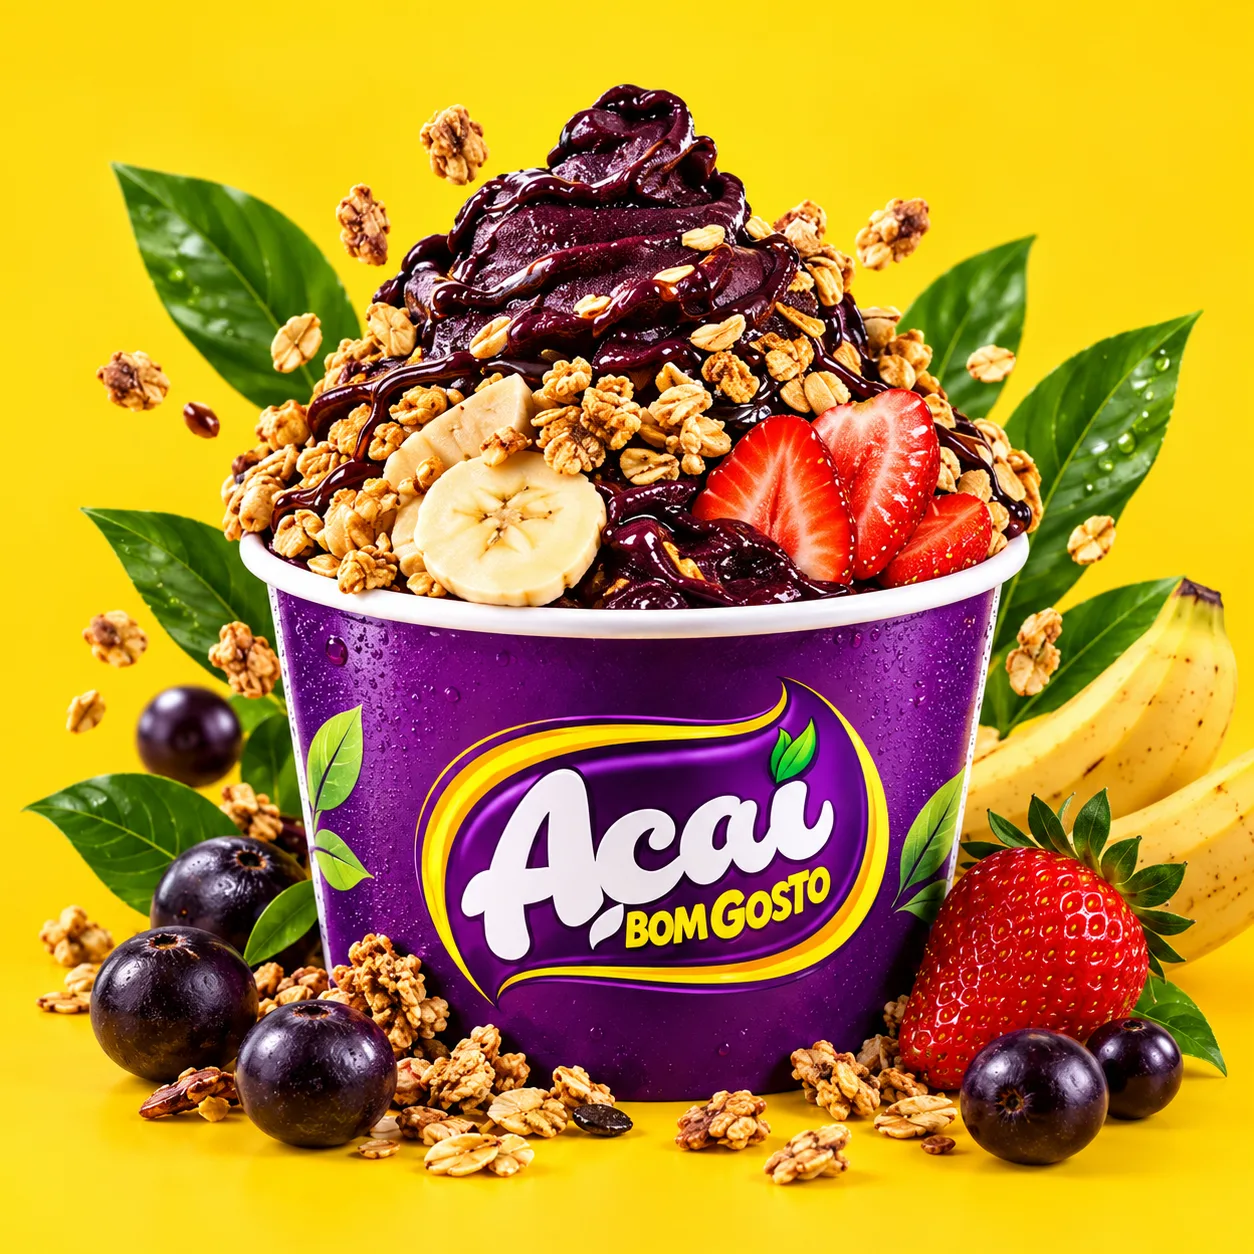
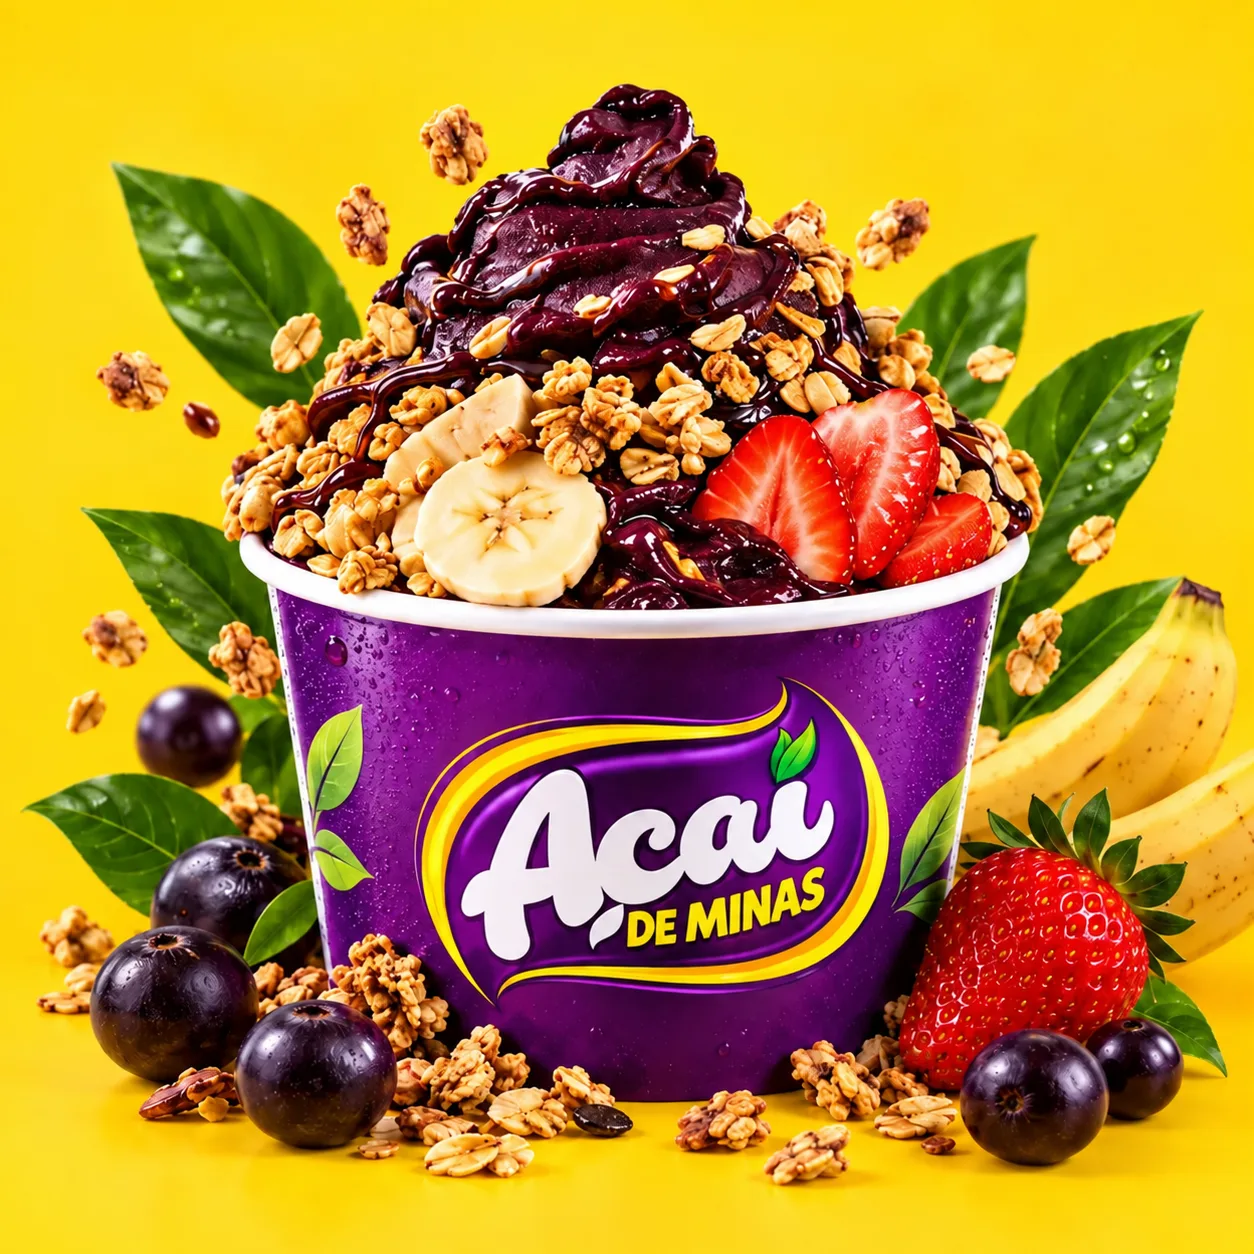
Corrige marca para Açaí de Minas nos textos e na arte principal

diff --git a/src/components/site/CartDrawer.tsx b/src/components/site/CartDrawer.tsx
@@ -4,5 +4,5 @@ import {Dialog,DialogContent,DialogTitle,DialogDescription} from "@/components/u
 import {useCart,cartItemPrice} from "@/hooks/useCart";
 import {business,brl} from "@/data/business";
 export function CartDrawer(){const {open,setOpen,items,subtotal,setQty,remove,notes,setNotes}=useCart();const [name,setName]=useState("");const [mode,setMode]=useState("Retirada");const [address,setAddress]=useState("");const [payment,setPayment]=useState("A combinar");
-function finish(e:React.FormEvent){e.preventDefault();if(!business.whatsapp||!items.length)return;const message=["*PEDIDO — AÇAÍ BOM GOSTO*",...items.map(i=>`${i.qty}x ${i.product.name}${i.variant?` (${i.variant.label})`:""} — ${brl(i.qty*cartItemPrice(i))}${i.flavor?` / ${i.flavor}`:""}`),`Subtotal dos produtos: ${brl(subtotal)}`,`Nome: ${name}`,`Recebimento: ${mode}`,...(mode==="Entrega"?[`Endereço: ${address}`,"Taxa e prazo de entrega: a confirmar com a loja"]:[]),`Pagamento: ${payment}`,...(notes?[`Observações: ${notes}`]:[]),"Aguardo confirmação de disponibilidade e valor final."].join("\n");window.open(`https://wa.me/${business.whatsapp}?text=${encodeURIComponent(message)}`,"_blank","noopener,noreferrer");}
-return <Dialog open={open} onOpenChange={setOpen}><DialogContent className="max-h-[90dvh] overflow-y-auto rounded-3xl sm:max-w-lg"><DialogTitle className="font-display text-2xl">Seu pedido de Bom Gosto</DialogTitle><DialogDescription>Confira os itens e confirme o pedido com a loja.</DialogDescription>{items.length===0?<div className="py-10 text-center"><p>Seu pedido ainda está vazio.</p><button className="yellow-button mt-5" onClick={()=>{setOpen(false);document.getElementById("cardapio")?.scrollIntoView()}}>Explorar cardápio</button></div>:<><ul className="divide-y">{items.map(i=><li key={i.key} className="py-4"><div className="flex justify-between gap-4"><strong>{i.product.name}</strong><span>{brl(i.qty*cartItemPrice(i))}</span></div>{i.variant&&<p>{i.variant.label}</p>}{i.flavor&&<p className="text-sm">{i.flavor}</p>}<div className="mt-3 flex items-center gap-4"><button aria-label={`Diminuir ${i.product.name}`} className="rounded-full bg-accent p-2" onClick={()=>setQty(i.key,i.qty-1)}><Minus size={18}/></button><span>{i.qty}</span><button aria-label={`Aumentar ${i.product.name}`} className="rounded-full bg-accent p-2" onClick={()=>setQty(i.key,i.qty+1)}><Plus size={18}/></button><button aria-label={`Remover ${i.product.name}`} className="ml-auto p-2" onClick={()=>remove(i.key)}><Trash2 size={18}/></button></div></li>)}</ul><div className="flex justify-between border-t py-4 text-lg font-bold"><span>Subtotal</span><span>{brl(subtotal)}</span></div><form onSubmit={finish} className="checkout-fields"><label>Seu nome<input required maxLength={100} autoComplete="name" value={name} onChange={e=>setName(e.target.value)}/></label><label>Recebimento<select value={mode} onChange={e=>setMode(e.target.value)}><option>Retirada</option><option>Entrega</option></select></label>{mode==="Entrega"&&<label>Endereço e referência<input required maxLength={300} autoComplete="street-address" value={address} onChange={e=>setAddress(e.target.value)}/></label>}<label>Pagamento<select value={payment} onChange={e=>setPayment(e.target.value)}>{["A combinar","PIX","Dinheiro","Cartão"].map(v=><option key={v}>{v}</option>)}</select></label><label>Observações (opcional)<textarea maxLength={500} value={notes} onChange={e=>setNotes(e.target.value)} placeholder="Alguma preferência para o seu pedido?"/></label><p className="text-sm text-muted-foreground">Disponibilidade, pagamento e eventual taxa de entrega serão confirmados pela loja.</p><button type="submit" disabled={!business.whatsapp} className="whatsapp-button disabled:opacity-50">Finalizar pelo WhatsApp</button>{!business.whatsapp&&<p role="status" className="text-sm">Contato da loja em atualização.</p>}</form></>}</DialogContent></Dialog>}
+function finish(e:React.FormEvent){e.preventDefault();if(!business.whatsapp||!items.length)return;const message=["*PEDIDO — AÇAÍ DE MINAS*",...items.map(i=>`${i.qty}x ${i.product.name}${i.variant?` (${i.variant.label})`:""} — ${brl(i.qty*cartItemPrice(i))}${i.flavor?` / ${i.flavor}`:""}`),`Subtotal dos produtos: ${brl(subtotal)}`,`Nome: ${name}`,`Recebimento: ${mode}`,...(mode==="Entrega"?[`Endereço: ${address}`,"Taxa e prazo de entrega: a confirmar com a loja"]:[]),`Pagamento: ${payment}`,...(notes?[`Observações: ${notes}`]:[]),"Aguardo confirmação de disponibilidade e valor final."].join("\n");window.open(`https://wa.me/${business.whatsapp}?text=${encodeURIComponent(message)}`,"_blank","noopener,noreferrer");}
+return <Dialog open={open} onOpenChange={setOpen}><DialogContent className="max-h-[90dvh] overflow-y-auto rounded-3xl sm:max-w-lg"><DialogTitle className="font-display text-2xl">Seu pedido — Açaí de Minas</DialogTitle><DialogDescription>Confira os itens e confirme o pedido com a loja.</DialogDescription>{items.length===0?<div className="py-10 text-center"><p>Seu pedido ainda está vazio.</p><button className="yellow-button mt-5" onClick={()=>{setOpen(false);document.getElementById("cardapio")?.scrollIntoView()}}>Explorar cardápio</button></div>:<><ul className="divide-y">{items.map(i=><li key={i.key} className="py-4"><div className="flex justify-between gap-4"><strong>{i.product.name}</strong><span>{brl(i.qty*cartItemPrice(i))}</span></div>{i.variant&&<p>{i.variant.label}</p>}{i.flavor&&<p className="text-sm">{i.flavor}</p>}<div className="mt-3 flex items-center gap-4"><button aria-label={`Diminuir ${i.product.name}`} className="rounded-full bg-accent p-2" onClick={()=>setQty(i.key,i.qty-1)}><Minus size={18}/></button><span>{i.qty}</span><button aria-label={`Aumentar ${i.product.name}`} className="rounded-full bg-accent p-2" onClick={()=>setQty(i.key,i.qty+1)}><Plus size={18}/></button><button aria-label={`Remover ${i.product.name}`} className="ml-auto p-2" onClick={()=>remove(i.key)}><Trash2 size={18}/></button></div></li>)}</ul><div className="flex justify-between border-t py-4 text-lg font-bold"><span>Subtotal</span><span>{brl(subtotal)}</span></div><form onSubmit={finish} className="checkout-fields"><label>Seu nome<input required maxLength={100} autoComplete="name" value={name} onChange={e=>setName(e.target.value)}/></label><label>Recebimento<select value={mode} onChange={e=>setMode(e.target.value)}><option>Retirada</option><option>Entrega</option></select></label>{mode==="Entrega"&&<label>Endereço e referência<input required maxLength={300} autoComplete="street-address" value={address} onChange={e=>setAddress(e.target.value)}/></label>}<label>Pagamento<select value={payment} onChange={e=>setPayment(e.target.value)}>{["A combinar","PIX","Dinheiro","Cartão"].map(v=><option key={v}>{v}</option>)}</select></label><label>Observações (opcional)<textarea maxLength={500} value={notes} onChange={e=>setNotes(e.target.value)} placeholder="Alguma preferência para o seu pedido?"/></label><p className="text-sm text-muted-foreground">Disponibilidade, pagamento e eventual taxa de entrega serão confirmados pela loja.</p><button type="submit" disabled={!business.whatsapp} className="whatsapp-button disabled:opacity-50">Finalizar pelo WhatsApp</button>{!business.whatsapp&&<p role="status" className="text-sm">Contato da loja em atualização.</p>}</form></>}</DialogContent></Dialog>}

diff --git a/src/routes/__root.tsx b/src/routes/__root.tsx
@@ -5,6 +5,6 @@ import { reportLovableError } from "../lib/lovable-error-reporting";
 function NotFoundComponent(){return <div className="flex min-h-screen items-center justify-center bg-background px-4"><div className="max-w-md text-center"><h1 className="text-7xl font-bold text-foreground">404</h1><h2 className="mt-4 text-xl font-semibold text-foreground">Página não encontrada</h2><p className="mt-2 text-sm text-muted-foreground">Esta página não está disponível.</p><div className="mt-6"><Link to="/" className="inline-flex items-center justify-center rounded-md bg-primary px-4 py-2 text-sm font-medium text-primary-foreground">Voltar ao início</Link></div></div></div>}
 function ErrorComponent({error,reset}:{error:Error;reset:()=>void}){console.error(error);const router=useRouter();useEffect(()=>{reportLovableError(error,{boundary:"tanstack_root_error_component"})},[error]);return <div className="flex min-h-screen items-center justify-center bg-background px-4"><div className="max-w-md text-center"><h1 className="text-xl font-semibold tracking-tight text-foreground">Não foi possível carregar</h1><p className="mt-2 text-sm text-muted-foreground">Tente novamente ou volte ao início.</p><div className="mt-6 flex flex-wrap justify-center gap-2"><button onClick={()=>{router.invalidate();reset()}} className="rounded-md bg-primary px-4 py-2 text-sm font-medium text-primary-foreground">Tentar novamente</button><a href="/" className="rounded-md border border-input px-4 py-2 text-sm">Voltar ao início</a></div></div></div>}
 function MediaProtection(){useEffect(()=>{const isImageTarget=(target:EventTarget|null)=>target instanceof Element&&Boolean(target.closest("img"));const preventImageAction=(event:Event)=>{if(isImageTarget(event.target))event.preventDefault()};const preventShortcuts=(event:KeyboardEvent)=>{const key=event.key.toLowerCase();if((event.ctrlKey||event.metaKey)&&["s","u","p"].includes(key))event.preventDefault();if(event.key==="PrintScreen")event.preventDefault()};document.addEventListener("contextmenu",preventImageAction,true);document.addEventListener("dragstart",preventImageAction,true);document.addEventListener("selectstart",preventImageAction,true);document.addEventListener("keydown",preventShortcuts,true);return()=>{document.removeEventListener("contextmenu",preventImageAction,true);document.removeEventListener("dragstart",preventImageAction,true);document.removeEventListener("selectstart",preventImageAction,true);document.removeEventListener("keydown",preventShortcuts,true)}},[]);return null}
-export const Route=createRootRoute({head:()=>({meta:[{charSet:"utf-8"},{name:"viewport",content:"width=device-width, initial-scale=1"},{title:"Açaí Bom Gosto | Cardápio e pedidos"},{name:"description",content:"Açaí, potes, vitaminas, frutas e complementos. Monte seu pedido e finalize pelo WhatsApp."},{name:"author",content:"Açaí Bom Gosto"},{property:"og:type",content:"website"},{name:"twitter:card",content:"summary_large_image"}],links:[{rel:"stylesheet",href:appCss},{rel:"preload",href:"/acai-hero.webp",as:"image",type:"image/webp"},{rel:"preconnect",href:"https://fonts.googleapis.com"},{rel:"preconnect",href:"https://fonts.gstatic.com",crossOrigin:"anonymous"},{rel:"stylesheet",href:"https://fonts.googleapis.com/css2?family=Nunito:wght@600;700;800;900&family=Plus+Jakarta+Sans:wght@400;500;600;700;800&display=swap"},{rel:"icon",type:"image/svg+xml",href:"/favicon.svg"}]}),shellComponent:RootShell,component:RootComponent,notFoundComponent:NotFoundComponent,errorComponent:ErrorComponent});
+export const Route=createRootRoute({head:()=>({meta:[{charSet:"utf-8"},{name:"viewport",content:"width=device-width, initial-scale=1"},{title:"Açaí de Minas | Cardápio e pedidos"},{name:"description",content:"Açaí, potes, vitaminas, frutas e complementos. Monte seu pedido e finalize pelo WhatsApp."},{name:"author",content:"Açaí de Minas"},{property:"og:type",content:"website"},{name:"twitter:card",content:"summary_large_image"}],links:[{rel:"stylesheet",href:appCss},{rel:"preload",href:"/acai-hero.webp",as:"image",type:"image/webp"},{rel:"preconnect",href:"https://fonts.googleapis.com"},{rel:"preconnect",href:"https://fonts.gstatic.com",crossOrigin:"anonymous"},{rel:"stylesheet",href:"https://fonts.googleapis.com/css2?family=Nunito:wght@600;700;800;900&family=Plus+Jakarta+Sans:wght@400;500;600;700;800&display=swap"},{rel:"icon",type:"image/svg+xml",href:"/favicon.svg"}]}),shellComponent:RootShell,component:RootComponent,notFoundComponent:NotFoundComponent,errorComponent:ErrorComponent});
 function RootShell({children}:{children:ReactNode}){return <html lang="pt-BR"><head><HeadContent/></head><body>{children}<Scripts/></body></html>}
 function RootComponent(){return <><Outlet/></>}

diff --git a/src/components/site/Hero.tsx b/src/components/site/Hero.tsx
@@ -1,2 +1,2 @@
 import {ArrowDown,Heart} from "lucide-react";
-export function Hero(){return <><section id="topo" className="acai-hero"><div className="hero-copy"><p className="eyebrow">AÇAÍ BOM GOSTO</p><h1>Mais que Açaí,<br/>é <em>Bom Gosto</em><br/>em cada momento!</h1><p>A pausa fica mais gostosa com açaí.<br/>Escolha seu favorito e deixe o resto com a gente.</p><a href="#cardapio" className="yellow-button">Quero meu açaí <ArrowDown size={19}/></a><span className="handwritten">Aqui tem mais vida! <Heart size={24}/></span></div><div className="hero-art"><img src="/acai-hero.webp" alt="Açaí Bom Gosto com frutas e granola — imagem ilustrativa" fetchPriority="high"/><span className="art-note">Uma colherada<br/>de felicidade.</span></div></section><div className="flavor-strip" aria-hidden="true">AÇAÍ • BOM GOSTO • MAIS SABOR • MAIS VIDA • AÇAÍ • BOM GOSTO</div></>}
+export function Hero(){return <><section id="topo" className="acai-hero"><div className="hero-copy"><p className="eyebrow">AÇAÍ DE MINAS</p><h1><em>Açaí de Minas.</em><br/>Mais sabor em<br/>cada momento!</h1><p>A pausa fica mais gostosa com açaí.<br/>Escolha seu favorito e deixe o resto com a gente.</p><a href="#cardapio" className="yellow-button">Quero meu açaí <ArrowDown size={19}/></a><span className="handwritten">Aqui tem mais vida! <Heart size={24}/></span></div><div className="hero-art"><img src="/acai-hero.webp" alt="Açaí de Minas com frutas e granola — imagem ilustrativa" fetchPriority="high"/><span className="art-note">Uma colherada<br/>de felicidade.</span></div></section><div className="flavor-strip" aria-hidden="true">AÇAÍ DE MINAS • MAIS SABOR • MAIS VIDA • AÇAÍ DE MINAS</div></>}

diff --git a/src/components/site/About.tsx b/src/components/site/About.tsx
@@ -1,1 +1,1 @@
-export function About(){return <section id="sobre" className="brand-about"><div><p className="eyebrow">DO SEU JEITO</p><h2>Seu açaí.<br/><em>Seu momento.</em></h2><p>Do copo para uma pausa ao pote para compartilhar: tem Bom Gosto para acompanhar você.</p><a className="yellow-button" href="#cardapio">Escolher meu favorito →</a></div><ol><li><b>01</b><div><h3>Escolha seu favorito</h3><p>Navegue pelas categorias do cardápio.</p></div></li><li><b>02</b><div><h3>Monte seu pedido</h3><p>Adicione os itens e ajuste as quantidades.</p></div></li><li><b>03</b><div><h3>Chame no WhatsApp</h3><p>Confirme disponibilidade, entrega e pagamento com a loja.</p></div></li></ol></section>}
+export function About(){return <section id="sobre" className="brand-about"><div><p className="eyebrow">DO SEU JEITO</p><h2>Seu açaí.<br/><em>Seu momento.</em></h2><p>Do copo para uma pausa ao pote para compartilhar: tem Açaí de Minas para acompanhar você.</p><a className="yellow-button" href="#cardapio">Escolher meu favorito →</a></div><ol><li><b>01</b><div><h3>Escolha seu favorito</h3><p>Navegue pelas categorias do cardápio.</p></div></li><li><b>02</b><div><h3>Monte seu pedido</h3><p>Adicione os itens e ajuste as quantidades.</p></div></li><li><b>03</b><div><h3>Chame no WhatsApp</h3><p>Confirme disponibilidade, entrega e pagamento com a loja.</p></div></li></ol></section>}

diff --git a/src/data/business.ts b/src/data/business.ts
@@ -1,3 +1,3 @@
 /** Contato oficial: preencher somente com o número confirmado pela loja. */
-export const business = {name:"Açaí Bom Gosto",tagline:"Mais que açaí, é Bom Gosto!",rating:0,reviews:0,city:"",address:"A combinar com a loja",hours:"Consulte pelo WhatsApp",phone:"",phoneHref:"",whatsapp:"",instagram:"",instagramUrl:"",mapsUrl:"",services:["Pedidos pelo WhatsApp"],siteUsageFee:0,deliveryPricing:{amount:null as number|null,everyKm:1.5,calculation:"blocks" as "blocks"|"proportional",minimumFee:0,maximumDistanceKm:null as number|null}} as const;
+export const business = {name:"Açaí de Minas",tagline:"Açaí de Minas. Sabor em cada momento.",rating:0,reviews:0,city:"",address:"A combinar com a loja",hours:"Consulte pelo WhatsApp",phone:"",phoneHref:"",whatsapp:"",instagram:"",instagramUrl:"",mapsUrl:"",services:["Pedidos pelo WhatsApp"],siteUsageFee:0,deliveryPricing:{amount:null as number|null,everyKm:1.5,calculation:"blocks" as "blocks"|"proportional",minimumFee:0,maximumDistanceKm:null as number|null}} as const;
 export const brl=(v:number)=>v.toLocaleString("pt-BR",{style:"currency",currency:"BRL"});

diff --git a/src/components/site/Header.tsx b/src/components/site/Header.tsx
@@ -1,3 +1,3 @@
 import {ShoppingBag} from "lucide-react";
 import {useCart} from "@/hooks/useCart";
-export function Header(){const {count,setOpen}=useCart();return <header className="brand-header"><a href="#topo" className="wordmark" aria-label="Açaí Bom Gosto, início"><span>Açaí</span><strong>BOM GOSTO</strong></a><nav aria-label="Menu principal"><a href="#cardapio">Cardápio</a><a href="#sobre">Bom Gosto</a><a href="#contato">Contato</a></nav><button className="cart-button" onClick={()=>setOpen(true)}><ShoppingBag size={19}/><span>Meu pedido</span><b>{count}</b></button></header>}
+export function Header(){const {count,setOpen}=useCart();return <header className="brand-header"><a href="#topo" className="wordmark" aria-label="Açaí de Minas, início"><span>Açaí</span><strong>DE MINAS</strong></a><nav aria-label="Menu principal"><a href="#cardapio">Cardápio</a><a href="#sobre">Sobre nós</a><a href="#contato">Contato</a></nav><button className="cart-button" onClick={()=>setOpen(true)}><ShoppingBag size={19}/><span>Meu pedido</span><b>{count}</b></button></header>}

diff --git a/src/components/site/Contact.tsx b/src/components/site/Contact.tsx
@@ -1,2 +1,2 @@
 import {business} from "@/data/business";
-export function Contact(){return <section id="contato" className="brand-contact"><p className="eyebrow">VAMOS CONVERSAR?</p><h2>Bom Gosto também no atendimento.</h2><p>Consulte sabores, disponibilidade e condições de entrega.</p>{business.whatsapp?<a className="whatsapp-button" target="_blank" rel="noreferrer" href={`https://wa.me/${business.whatsapp}`}>Falar pelo WhatsApp</a>:<p>Contato da loja em atualização.</p>}</section>}
+export function Contact(){return <section id="contato" className="brand-contact"><p className="eyebrow">VAMOS CONVERSAR?</p><h2>Açaí de Minas, pertinho de você.</h2><p>Consulte sabores, disponibilidade e condições de entrega.</p>{business.whatsapp?<a className="whatsapp-button" target="_blank" rel="noreferrer" href={`https://wa.me/${business.whatsapp}`}>Falar pelo WhatsApp</a>:<p>Contato da loja em atualização.</p>}</section>}

diff --git a/src/components/site/MenuSection.tsx b/src/components/site/MenuSection.tsx
@@ -27,7 +27,7 @@ export function MenuSection() {
     <section id="cardapio" className="mx-auto max-w-6xl px-4 py-16 sm:px-6 md:py-24">
       <div className="mb-8 text-center">
         <p className="text-xs font-semibold uppercase tracking-[0.28em] text-secondary">ESCOLHA SEU FAVORITO</p>
-        <h2 className="mt-3 font-display text-3xl font-semibold text-foreground sm:text-4xl">Seu momento de Bom Gosto.</h2>
+        <h2 className="mt-3 font-display text-3xl font-semibold text-foreground sm:text-4xl">Seu momento de açaí.</h2>
         <p className="mx-auto mt-3 max-w-lg text-sm text-muted-foreground">
           Açaí, frutas e complementos. Escolha, adicione e peça pelo WhatsApp.
         </p>

diff --git a/src/routes/index.tsx b/src/routes/index.tsx
@@ -15,7 +15,7 @@ const LazyCartDrawer = lazy(async () => {
   return { default: module.CartDrawer };
 });
 
-const title="Açaí Bom Gosto | Cardápio e pedidos";
+const title="Açaí de Minas | Cardápio e pedidos";
 const description="Açaí, potes, vitaminas, frutas e complementos. Monte seu pedido e finalize pelo WhatsApp.";
 export const Route=createFileRoute("/")({head:()=>({meta:[{title},{name:"description",content:description},{property:"og:title",content:title},{property:"og:description",content:description},{property:"og:type",content:"restaurant"},{name:"twitter:card",content:"summary_large_image"}]}),component:Index});
 

diff --git a/src/components/site/Footer.tsx b/src/components/site/Footer.tsx
@@ -1,1 +1,1 @@
-export function Footer(){return <footer className="brand-footer"><a className="wordmark" href="#topo"><span>Açaí</span><strong>BOM GOSTO</strong></a><p>Mais que açaí, é Bom Gosto sempre!</p><a href="#cardapio">Ver cardápio</a><small>© {new Date().getFullYear()} Açaí Bom Gosto</small></footer>}
+export function Footer(){return <footer className="brand-footer"><a className="wordmark" href="#topo"><span>Açaí</span><strong>DE MINAS</strong></a><p>Açaí de Minas. Sabor em cada momento.</p><a href="#cardapio">Ver cardápio</a><small>© {new Date().getFullYear()} Açaí de Minas</small></footer>}

diff --git a/README.md b/README.md
@@ -1,4 +1,4 @@
-# Açaí Bom Gosto
+# Açaí de Minas
 
 Cardápio em React/TanStack Start adaptado do template fornecido.
 
